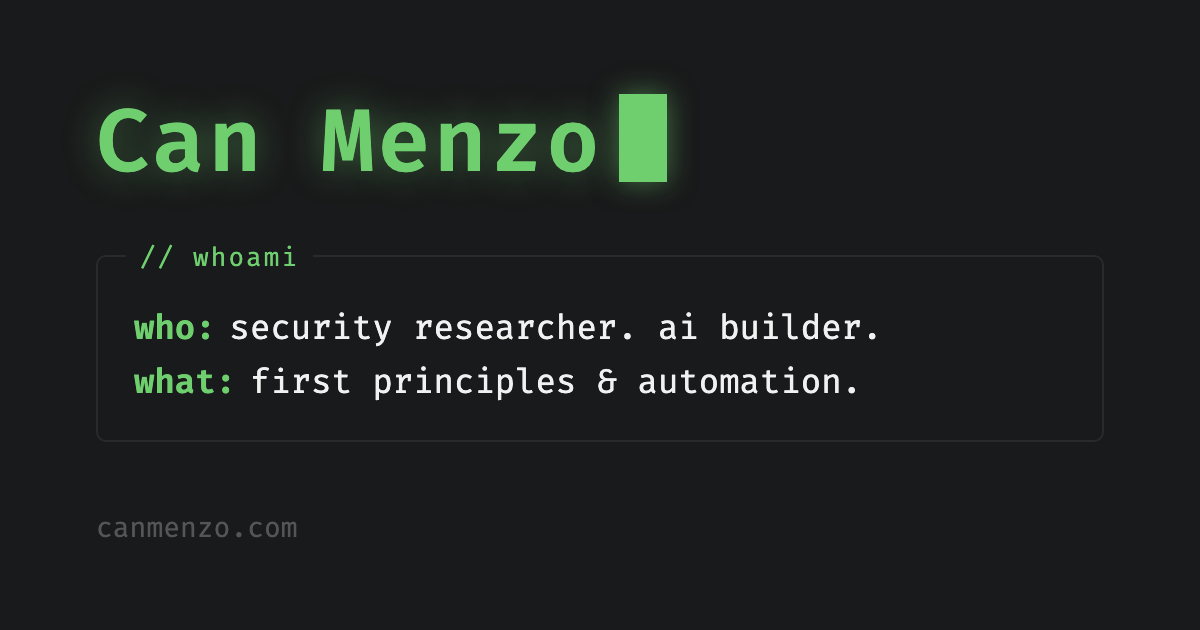
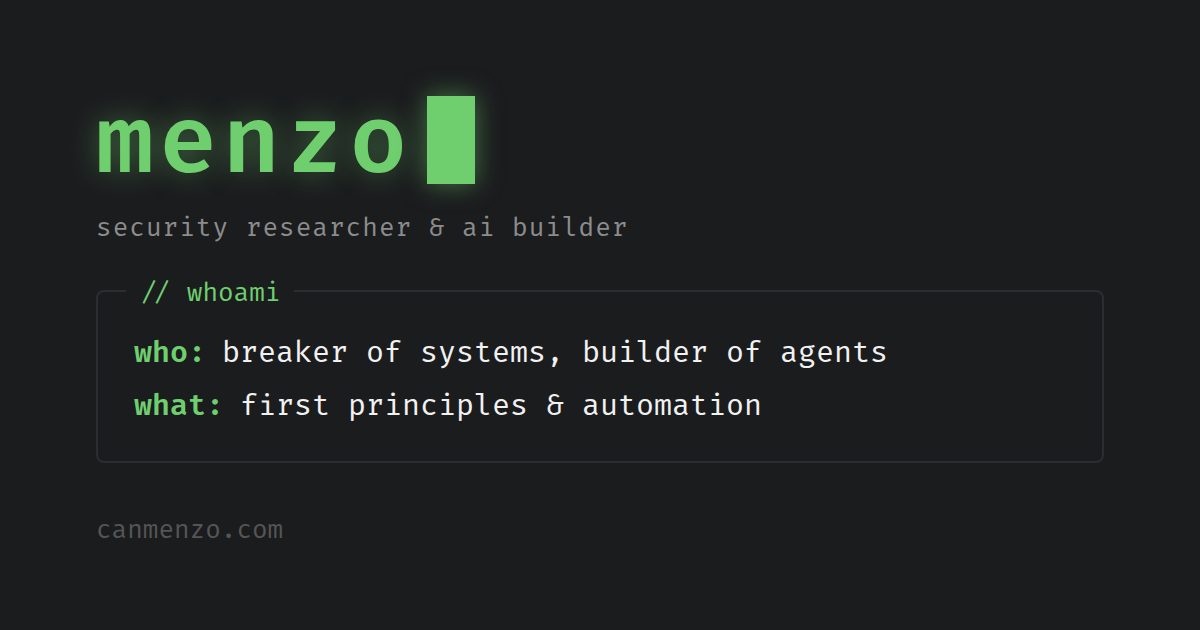
Rename site to lowercase menzo everywhere and refresh link-preview image
Claude-Session: https://claude.ai/code/session_01QcqNPx5VSX5LRnx5dduR2V

diff --git a/index.html b/index.html
@@ -4,8 +4,8 @@
 <head>
   <meta charset="utf-8">
   <meta name="viewport" content="width=device-width, initial-scale=1">
-  <meta name="description" content="Can Menzo's personal site. Security researcher &amp; AI builder." />
-  <meta name="author" content="Can Menzo" />
+  <meta name="description" content="menzo's personal site. security researcher &amp; ai builder." />
+  <meta name="author" content="menzo" />
 
   <link rel="stylesheet" href="css/styles.css?v=10">
   <link rel="preload" href="fonts/fira-code-latin-400.woff2" as="font" type="font/woff2" crossorigin>
@@ -13,17 +13,17 @@
 
   <link rel="canonical" href="https://canmenzo.com">
   <link rel="icon" href="favicon.ico?v=2">
-  <title>Can Menzo | security researcher &amp; ai builder</title>
+  <title>menzo | security researcher &amp; ai builder</title>
 
   <meta property="og:type" content="website">
-  <meta property="og:site_name" content="Can Menzo">
-  <meta property="og:title" content="Can Menzo | Personal Website">
-  <meta property="og:description" content="Can Menzo's personal site. Security researcher &amp; AI builder.">
+  <meta property="og:site_name" content="menzo">
+  <meta property="og:title" content="menzo | security researcher &amp; ai builder">
+  <meta property="og:description" content="menzo's personal site. security researcher &amp; ai builder.">
   <meta property="og:url" content="https://canmenzo.com/">
-  <meta property="og:image" content="https://canmenzo.com/og.png">
+  <meta property="og:image" content="https://canmenzo.com/og.png?v=2">
   <meta property="og:image:width" content="1200">
   <meta property="og:image:height" content="630">
-  <meta property="og:image:alt" content="Can Menzo: security researcher &amp; ai builder">
+  <meta property="og:image:alt" content="menzo: security researcher &amp; ai builder">
   <meta name="twitter:card" content="summary_large_image">
   <meta name="twitter:site" content="@canmenzo">
 
@@ -31,7 +31,7 @@
     {
       "@context": "http://schema.org",
       "@type": "Person",
-      "name": "Can Menzo",
+      "name": "menzo",
       "url": "https://canmenzo.com",
       "sameAs": [
         "https://twitter.com/canmenzo",
@@ -94,7 +94,7 @@
 <body class="dark-mode">
   <script src="js/theme.js?v=1"></script>
   <main class="container">
-    <h2 class="namebar"><span class="name" id="name" data-text="Can Menzo">Can Menzo</span><span class="caret" aria-hidden="true"></span></h2>
+    <h2 class="namebar"><span class="name" id="name" data-text="menzo">menzo</span><span class="caret" aria-hidden="true"></span></h2>
     <p class="tagline">security researcher &amp; ai builder</p>
 
     <div style="text-align: left">

diff --git a/blogs/index.html b/blogs/index.html
@@ -4,8 +4,8 @@
 <head>
   <meta charset="utf-8">
   <meta name="viewport" content="width=device-width, initial-scale=1">
-  <meta name="description" content="Notes and writing by Can Menzo - threat hunting, security research, AI." />
-  <meta name="author" content="Can Menzo" />
+  <meta name="description" content="notes and writing by menzo - threat hunting, security research, ai." />
+  <meta name="author" content="menzo" />
 
   <meta http-equiv="Content-Security-Policy" content="default-src 'none'; script-src 'self' 'unsafe-inline'; style-src 'self' 'unsafe-inline' https://fonts.googleapis.com; font-src https://fonts.gstatic.com; img-src 'self' data:; connect-src 'self' https://api.github.com; base-uri 'none'; form-action 'none'">
 
@@ -14,17 +14,17 @@
   <link href="https://fonts.googleapis.com/css2?family=Literata:ital,opsz,wght@0,7..72,400;0,7..72,600;0,7..72,700;1,7..72,400&family=Fira+Code:wght@400;500;600&display=swap" rel="stylesheet">
   <link rel="icon" href="../favicon.ico?v=2">
   <link rel="canonical" href="https://canmenzo.com/blogs/">
-  <title>Can Menzo | blogs</title>
+  <title>menzo | blogs</title>
 
   <meta property="og:type" content="website">
-  <meta property="og:site_name" content="Can Menzo">
-  <meta property="og:title" content="Can Menzo | blogs">
-  <meta property="og:description" content="Notes and writing by Can Menzo - threat hunting, security research, AI.">
+  <meta property="og:site_name" content="menzo">
+  <meta property="og:title" content="menzo | blogs">
+  <meta property="og:description" content="notes and writing by menzo - threat hunting, security research, ai.">
   <meta property="og:url" content="https://canmenzo.com/blogs/">
-  <meta property="og:image" content="https://canmenzo.com/og.png">
+  <meta property="og:image" content="https://canmenzo.com/og.png?v=2">
   <meta property="og:image:width" content="1200">
   <meta property="og:image:height" content="630">
-  <meta property="og:image:alt" content="Can Menzo: security researcher, ai builder">
+  <meta property="og:image:alt" content="menzo: security researcher &amp; ai builder">
   <meta name="twitter:card" content="summary_large_image">
   <meta name="twitter:site" content="@canmenzo">
 

diff --git a/projects/index.html b/projects/index.html
@@ -4,25 +4,25 @@
 <head>
   <meta charset="utf-8">
   <meta name="viewport" content="width=device-width, initial-scale=1">
-  <meta name="description" content="Projects by Can Menzo - threat hunter, security researcher, AI builder." />
-  <meta name="author" content="Can Menzo" />
+  <meta name="description" content="projects by menzo - security researcher &amp; ai builder." />
+  <meta name="author" content="menzo" />
 
   <link rel="stylesheet" href="../css/styles.css?v=9">
   <link rel="preload" href="../fonts/fira-code-latin-400.woff2" as="font" type="font/woff2" crossorigin>
   <link rel="preload" href="../fonts/fira-code-latin-600.woff2" as="font" type="font/woff2" crossorigin>
   <link rel="canonical" href="https://canmenzo.com/projects/">
   <link rel="icon" href="../favicon.ico?v=2">
-  <title>Can Menzo | Projects</title>
+  <title>menzo | projects</title>
 
   <meta property="og:type" content="website">
-  <meta property="og:site_name" content="Can Menzo">
-  <meta property="og:title" content="Can Menzo | Projects">
-  <meta property="og:description" content="Projects by Can Menzo - threat hunter, security researcher, AI builder.">
+  <meta property="og:site_name" content="menzo">
+  <meta property="og:title" content="menzo | projects">
+  <meta property="og:description" content="projects by menzo - security researcher &amp; ai builder.">
   <meta property="og:url" content="https://canmenzo.com/projects/">
-  <meta property="og:image" content="https://canmenzo.com/og.png">
+  <meta property="og:image" content="https://canmenzo.com/og.png?v=2">
   <meta property="og:image:width" content="1200">
   <meta property="og:image:height" content="630">
-  <meta property="og:image:alt" content="Can Menzo: security researcher, ai builder">
+  <meta property="og:image:alt" content="menzo: security researcher &amp; ai builder">
   <meta name="twitter:card" content="summary_large_image">
   <meta name="twitter:site" content="@canmenzo">
 

diff --git a/whatido/index.html b/whatido/index.html
@@ -4,8 +4,8 @@
 <head>
   <meta charset="utf-8">
   <meta name="viewport" content="width=device-width, initial-scale=1">
-  <meta name="description" content="What do I do? - Can Menzo" />
-  <meta name="author" content="Can Menzo" />
+  <meta name="description" content="what do i do? - menzo" />
+  <meta name="author" content="menzo" />
 
   <link rel="stylesheet" href="../css/styles.css?v=9">
   <link rel="preload" href="../fonts/fira-code-latin-400.woff2" as="font" type="font/woff2" crossorigin>
@@ -13,17 +13,17 @@
 
   <link rel="canonical" href="https://canmenzo.com/whatido/">
   <link rel="icon" href="../favicon.ico?v=2">
-  <title>Can Menzo | what do i do?</title>
+  <title>menzo | what do i do?</title>
 
   <meta property="og:type" content="website">
-  <meta property="og:site_name" content="Can Menzo">
-  <meta property="og:title" content="Can Menzo | what do i do?">
-  <meta property="og:description" content="What do I do? - Can Menzo">
+  <meta property="og:site_name" content="menzo">
+  <meta property="og:title" content="menzo | what do i do?">
+  <meta property="og:description" content="what do i do? - menzo">
   <meta property="og:url" content="https://canmenzo.com/whatido/">
-  <meta property="og:image" content="https://canmenzo.com/og.png">
+  <meta property="og:image" content="https://canmenzo.com/og.png?v=2">
   <meta property="og:image:width" content="1200">
   <meta property="og:image:height" content="630">
-  <meta property="og:image:alt" content="Can Menzo: security researcher, ai builder">
+  <meta property="og:image:alt" content="menzo: security researcher &amp; ai builder">
   <meta name="twitter:card" content="summary_large_image">
   <meta name="twitter:site" content="@canmenzo">
 

diff --git a/chipotle/index.html b/chipotle/index.html
@@ -4,8 +4,8 @@
 <head>
   <meta charset="utf-8">
   <meta name="viewport" content="width=device-width, initial-scale=1">
-  <meta name="description" content="Can Menzo's chipotle order." />
-  <meta name="author" content="Can Menzo" />
+  <meta name="description" content="menzo's chipotle order." />
+  <meta name="author" content="menzo" />
 
   <link rel="stylesheet" href="../css/styles.css?v=9">
   <link rel="preload" href="../fonts/fira-code-latin-400.woff2" as="font" type="font/woff2" crossorigin>
@@ -13,17 +13,17 @@
 
   <link rel="canonical" href="https://canmenzo.com/chipotle/">
   <link rel="icon" href="../favicon.ico?v=2">
-  <title>Can Menzo | chipotle</title>
+  <title>menzo | chipotle</title>
 
   <meta property="og:type" content="website">
-  <meta property="og:site_name" content="Can Menzo">
-  <meta property="og:title" content="Can Menzo | chipotle">
-  <meta property="og:description" content="Can Menzo's chipotle order.">
+  <meta property="og:site_name" content="menzo">
+  <meta property="og:title" content="menzo | chipotle">
+  <meta property="og:description" content="menzo's chipotle order.">
   <meta property="og:url" content="https://canmenzo.com/chipotle/">
-  <meta property="og:image" content="https://canmenzo.com/og.png">
+  <meta property="og:image" content="https://canmenzo.com/og.png?v=2">
   <meta property="og:image:width" content="1200">
   <meta property="og:image:height" content="630">
-  <meta property="og:image:alt" content="Can Menzo: security researcher, ai builder">
+  <meta property="og:image:alt" content="menzo: security researcher &amp; ai builder">
   <meta name="twitter:card" content="summary_large_image">
   <meta name="twitter:site" content="@canmenzo">
 

diff --git a/numbers/index.html b/numbers/index.html
@@ -5,7 +5,7 @@
   <meta charset="utf-8">
   <meta name="viewport" content="width=device-width, initial-scale=1">
   <meta name="description" content="Bir Isim Bir Islem solver - find an expression that hits the target." />
-  <meta name="author" content="Can Menzo" />
+  <meta name="author" content="menzo" />
 
   <link rel="stylesheet" href="../css/styles.css?v=9">
   <link rel="preload" href="../fonts/fira-code-latin-400.woff2" as="font" type="font/woff2" crossorigin>
@@ -13,17 +13,17 @@
 
   <link rel="canonical" href="https://canmenzo.com/numbers/">
   <link rel="icon" href="../favicon.ico?v=2">
-  <title>Can Menzo | bir işlem solver</title>
+  <title>menzo | bir işlem solver</title>
 
   <meta property="og:type" content="website">
-  <meta property="og:site_name" content="Can Menzo">
-  <meta property="og:title" content="Can Menzo | bir işlem solver">
+  <meta property="og:site_name" content="menzo">
+  <meta property="og:title" content="menzo | bir işlem solver">
   <meta property="og:description" content="Bir Isim Bir Islem solver - find an expression that hits the target.">
   <meta property="og:url" content="https://canmenzo.com/numbers/">
-  <meta property="og:image" content="https://canmenzo.com/og.png">
+  <meta property="og:image" content="https://canmenzo.com/og.png?v=2">
   <meta property="og:image:width" content="1200">
   <meta property="og:image:height" content="630">
-  <meta property="og:image:alt" content="Can Menzo: security researcher, ai builder">
+  <meta property="og:image:alt" content="menzo: security researcher &amp; ai builder">
   <meta name="twitter:card" content="summary_large_image">
   <meta name="twitter:site" content="@canmenzo">
 

diff --git a/toldya/index.html b/toldya/index.html
@@ -5,7 +5,7 @@
   <meta charset="utf-8">
   <meta name="viewport" content="width=device-width, initial-scale=1">
   <meta name="description" content="Told ya." />
-  <meta name="author" content="Can Menzo" />
+  <meta name="author" content="menzo" />
 
   <link rel="stylesheet" href="../css/styles.css?v=9">
   <link rel="preload" href="../fonts/fira-code-latin-400.woff2" as="font" type="font/woff2" crossorigin>
@@ -13,17 +13,17 @@
 
   <link rel="canonical" href="https://canmenzo.com/toldya/">
   <link rel="icon" href="../favicon.ico?v=2">
-  <title>Can Menzo | told ya</title>
+  <title>menzo | told ya</title>
 
   <meta property="og:type" content="website">
-  <meta property="og:site_name" content="Can Menzo">
-  <meta property="og:title" content="Can Menzo | told ya">
+  <meta property="og:site_name" content="menzo">
+  <meta property="og:title" content="menzo | told ya">
   <meta property="og:description" content="Told ya.">
   <meta property="og:url" content="https://canmenzo.com/toldya/">
-  <meta property="og:image" content="https://canmenzo.com/og.png">
+  <meta property="og:image" content="https://canmenzo.com/og.png?v=2">
   <meta property="og:image:width" content="1200">
   <meta property="og:image:height" content="630">
-  <meta property="og:image:alt" content="Can Menzo: security researcher, ai builder">
+  <meta property="og:image:alt" content="menzo: security researcher &amp; ai builder">
   <meta name="twitter:card" content="summary_large_image">
   <meta name="twitter:site" content="@canmenzo">
 

diff --git a/404.html b/404.html
@@ -5,7 +5,7 @@
   <meta charset="utf-8">
   <meta name="viewport" content="width=device-width, initial-scale=1">
   <meta name="robots" content="noindex">
-  <meta name="author" content="Can Menzo" />
+  <meta name="author" content="menzo" />
 
   <!-- GitHub Pages serves this file at whatever URL was missed, so every
        path here is absolute. -->
@@ -13,7 +13,7 @@
   <link rel="preload" href="/fonts/fira-code-latin-400.woff2" as="font" type="font/woff2" crossorigin>
   <link rel="preload" href="/fonts/fira-code-latin-600.woff2" as="font" type="font/woff2" crossorigin>
   <link rel="icon" href="/favicon.ico?v=2">
-  <title>Can Menzo | 404</title>
+  <title>menzo | 404</title>
 
   <style>
     .container {
